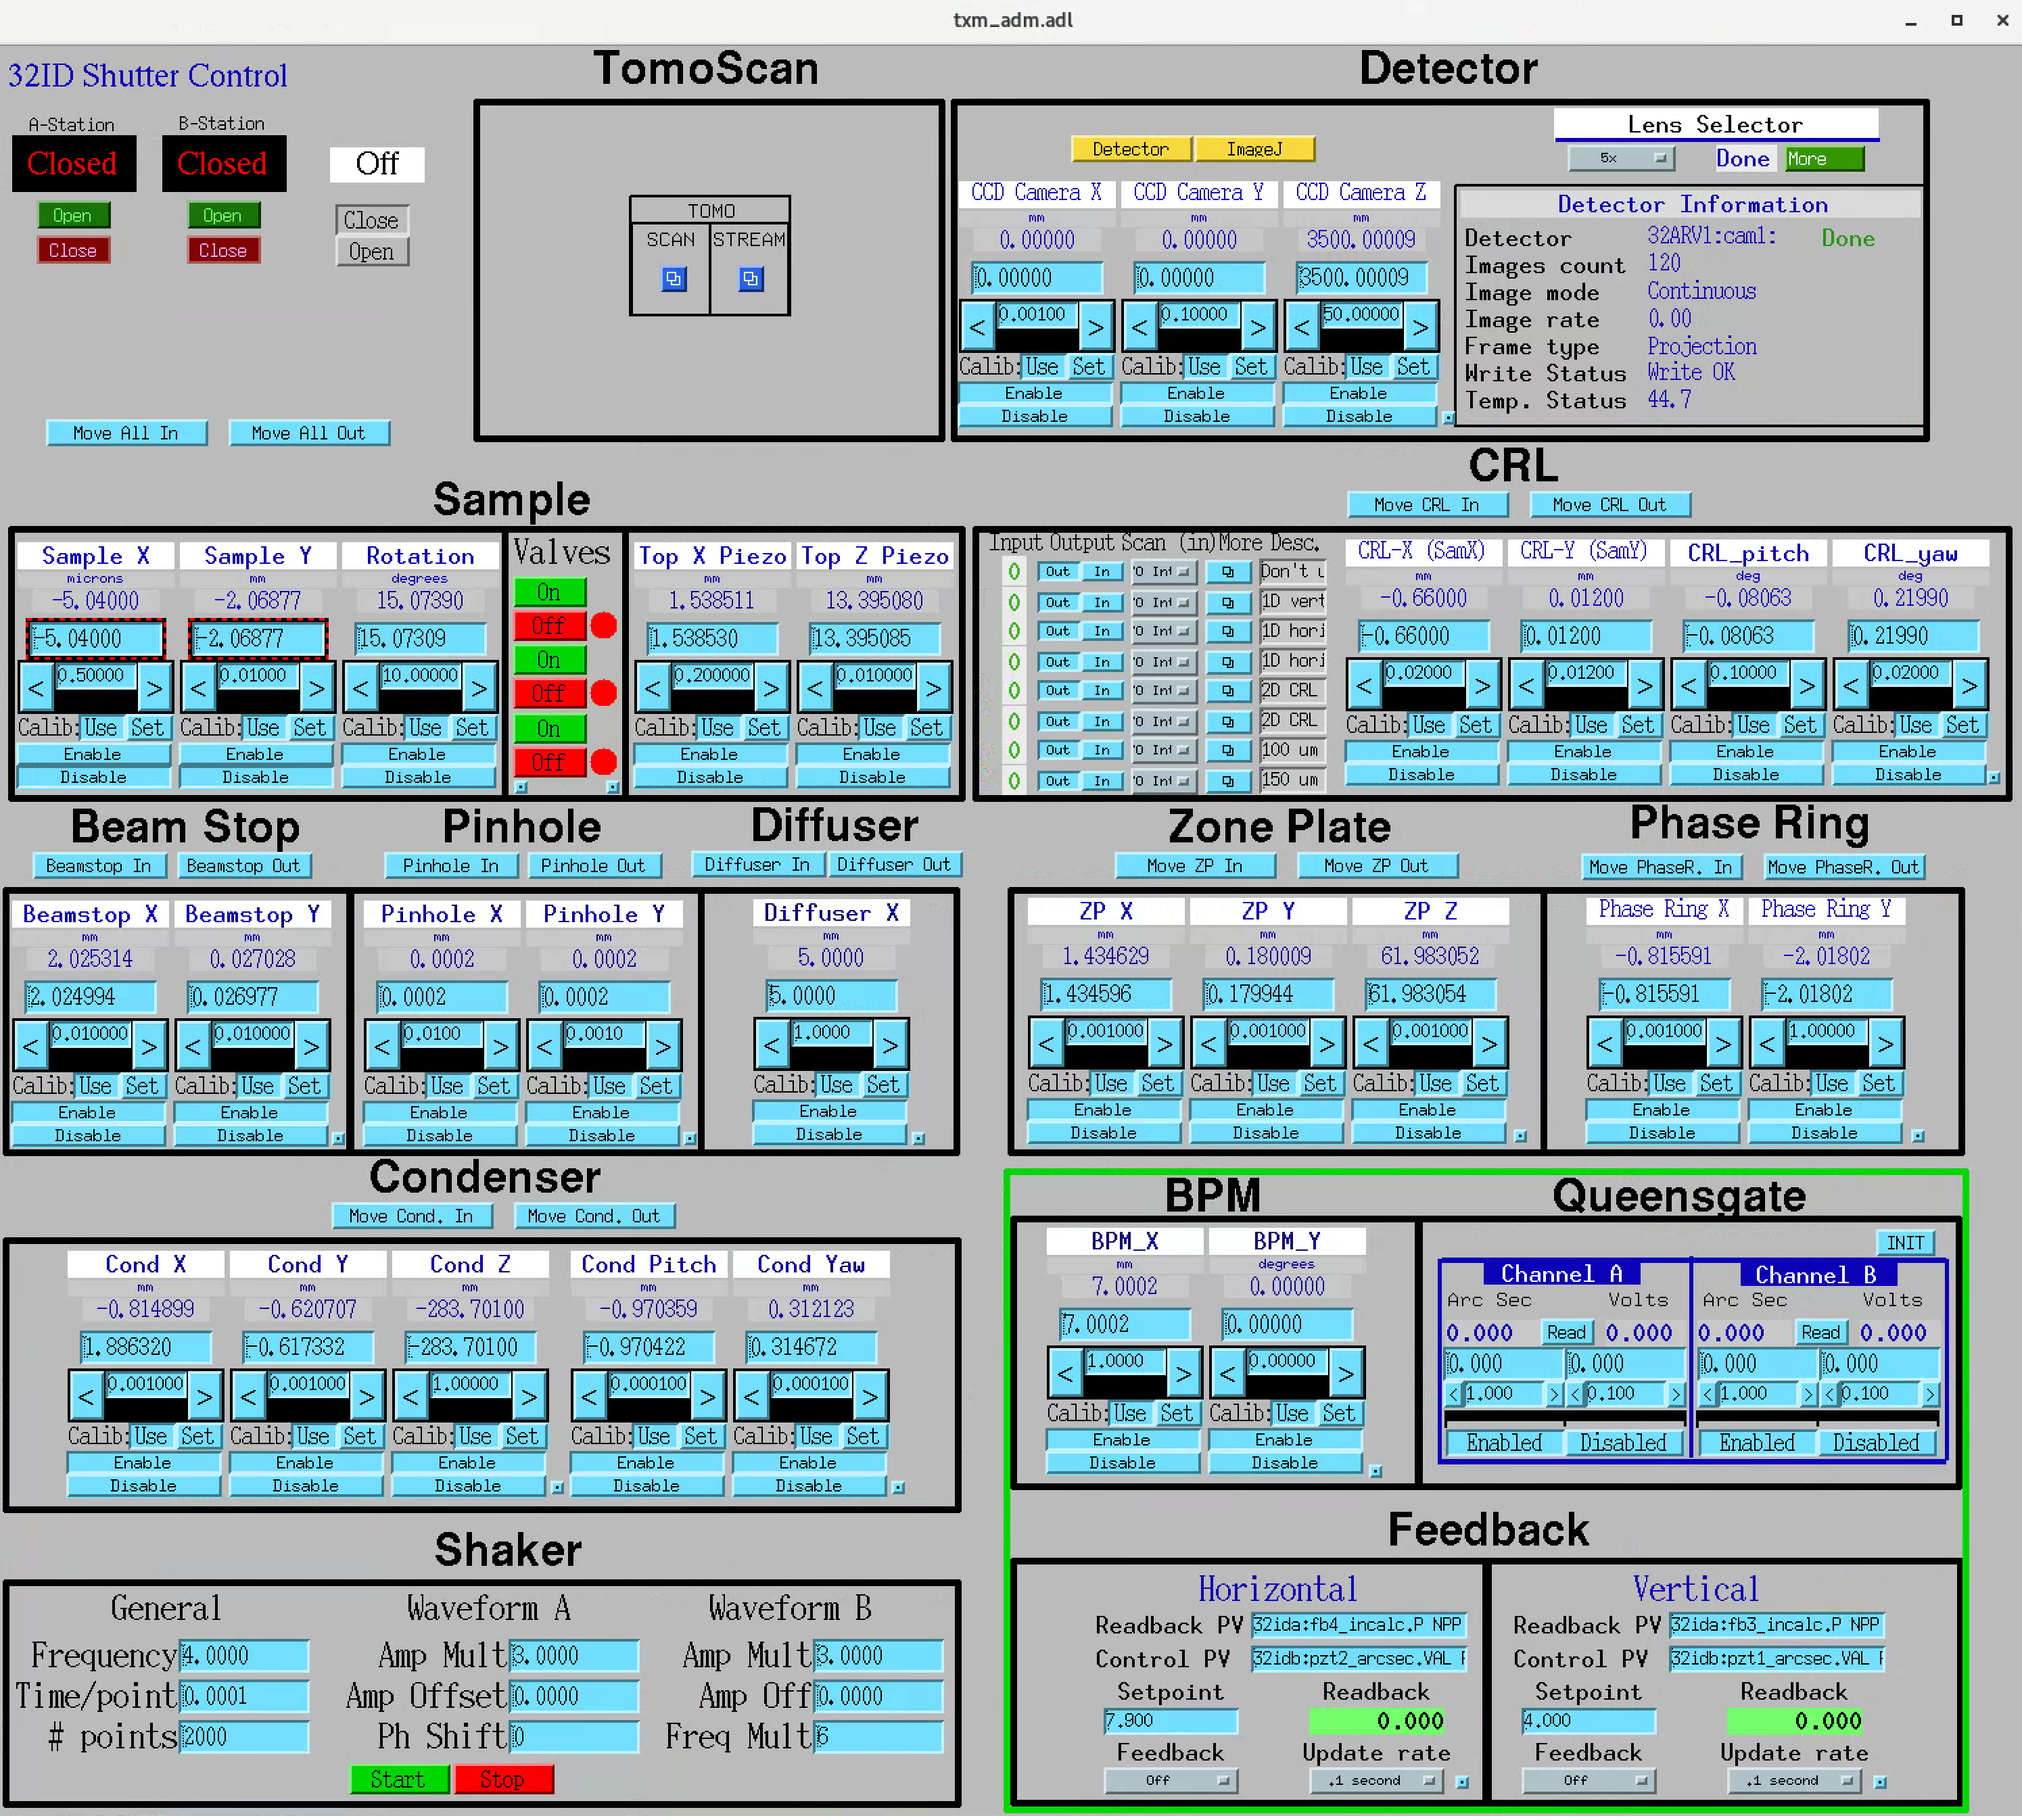
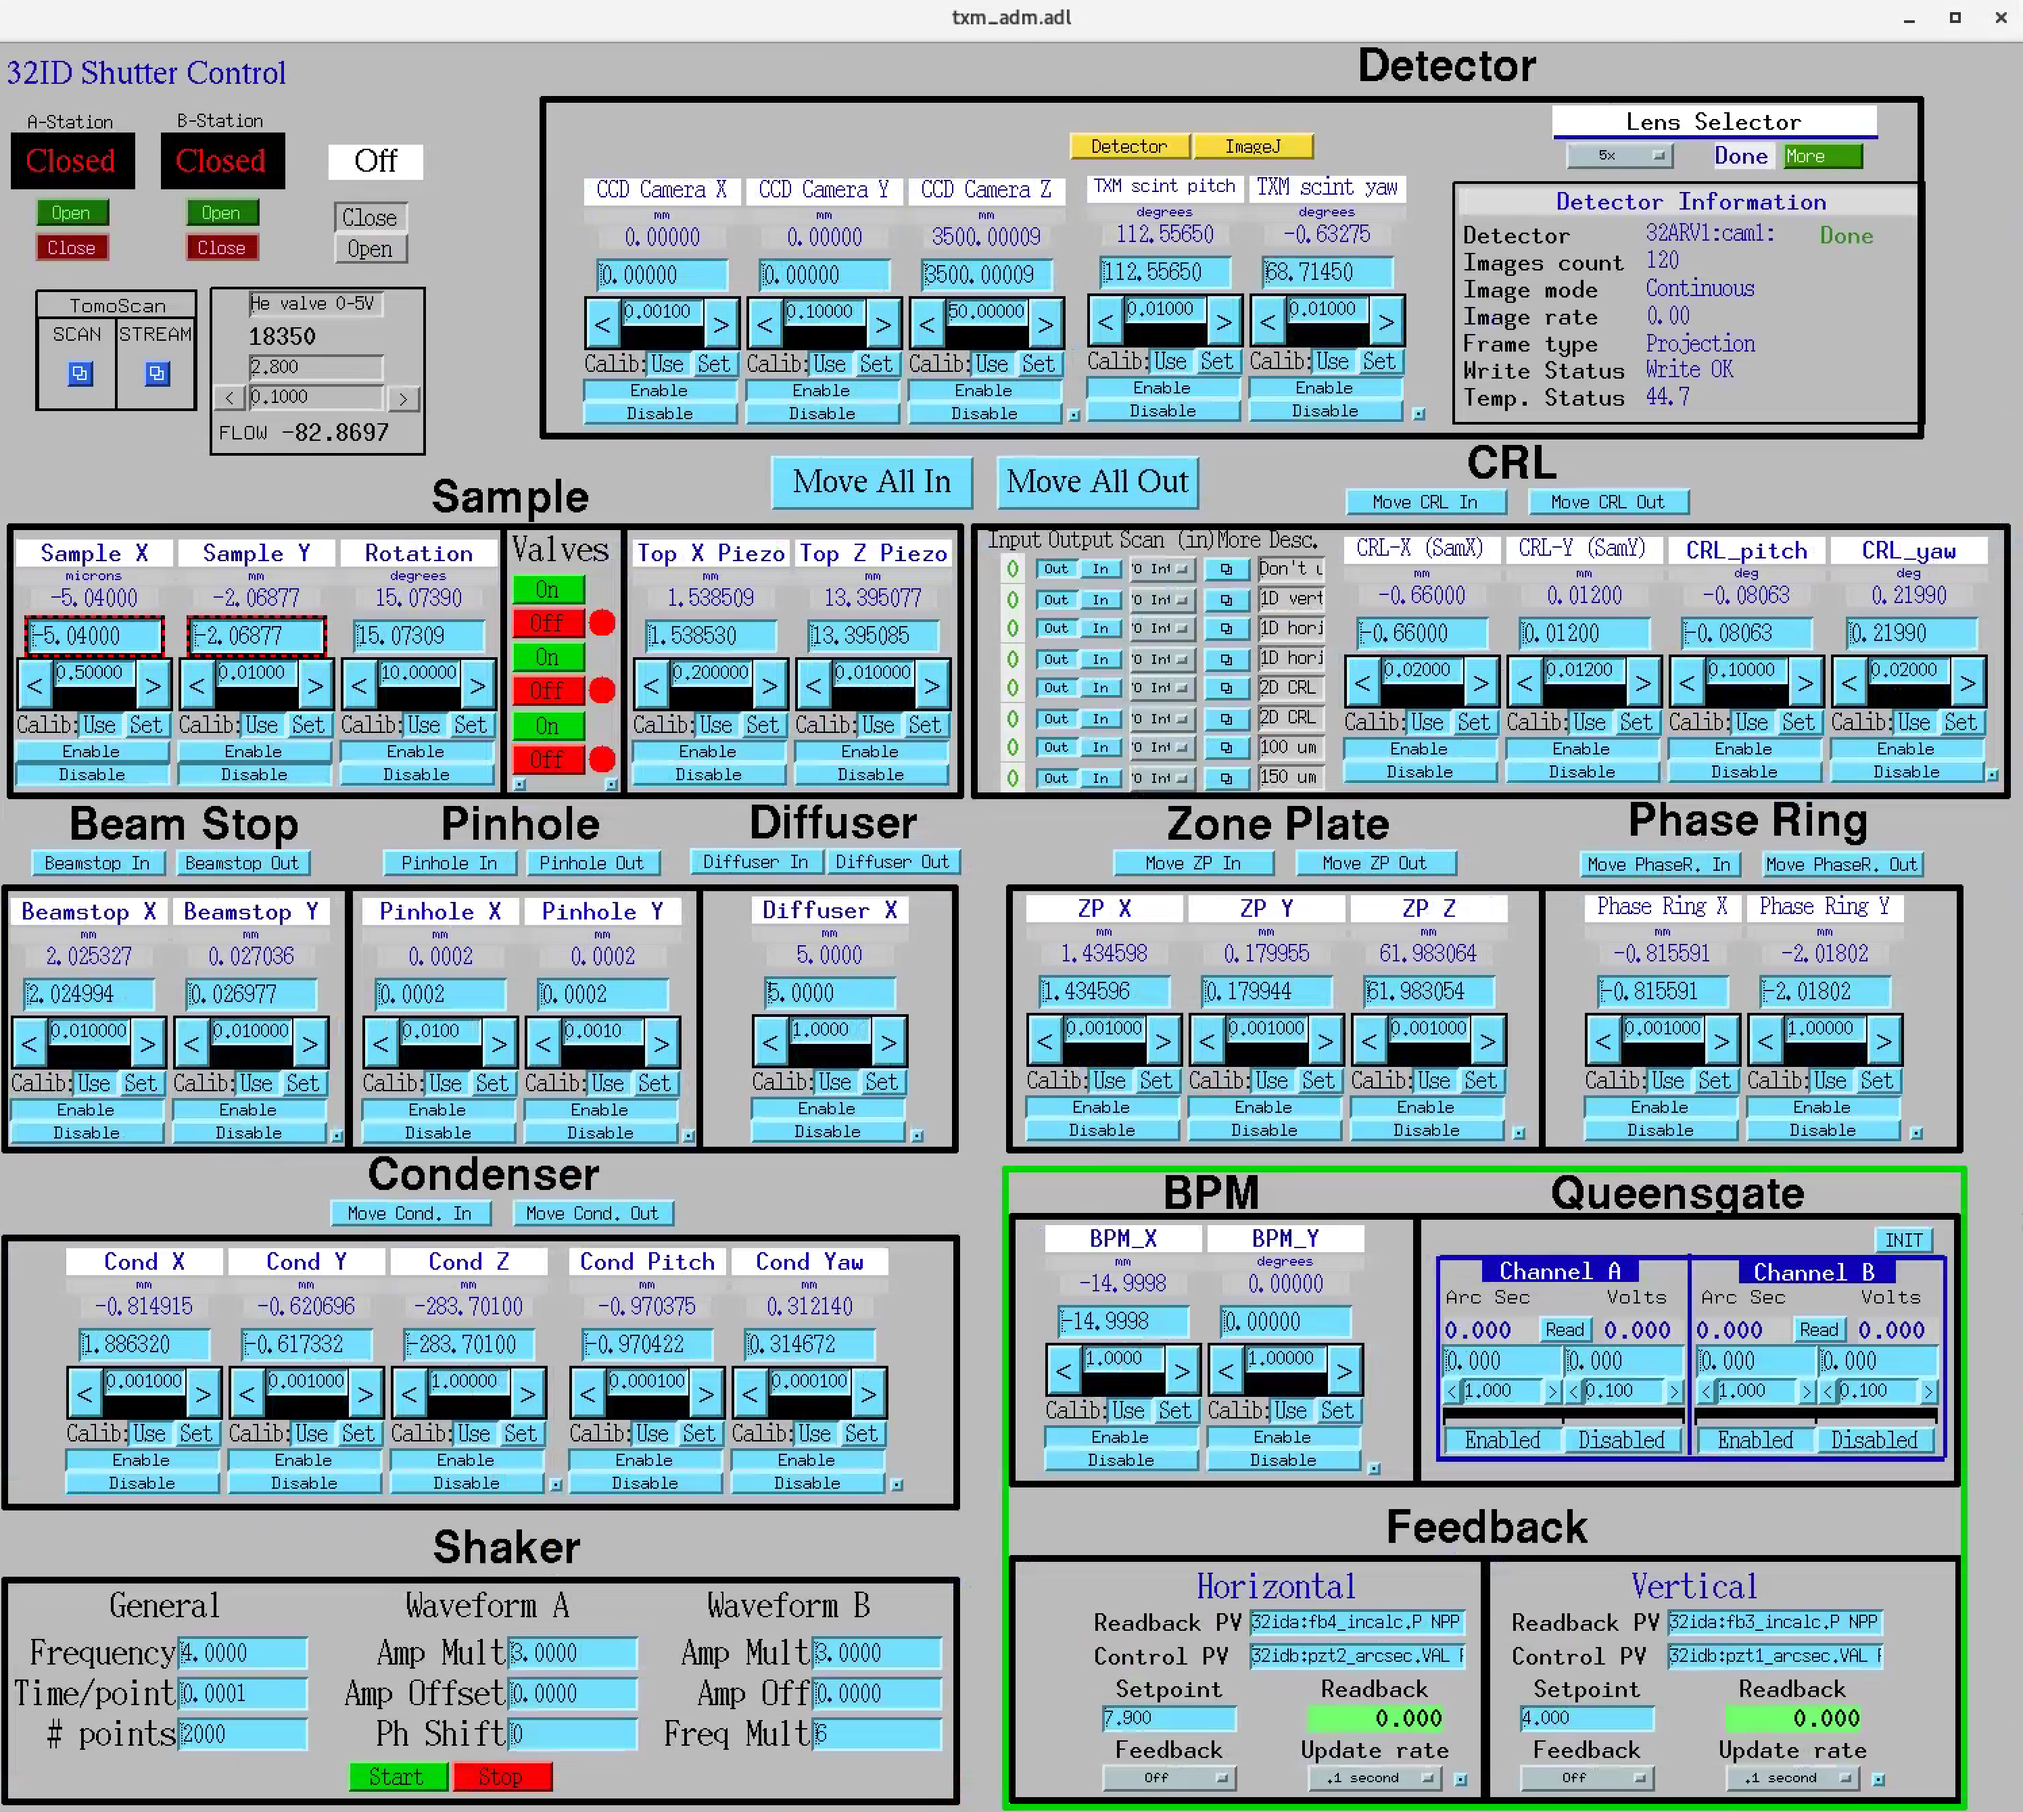
added He flow control

Changed region(s): [[0.0, 0.0, 0.9953, 1.0], [0.9331, 0.0, 0.9953, 0.031]]

diff --git a/docs/source/txm/troubleshoot/item_001.rst b/docs/source/txm/troubleshoot/item_001.rst
@@ -248,6 +248,26 @@ To estimate T°::
     In [1]: from furnace_calibration import calibrate_temperature
     In [2]: calibrate_temperature("furnace_calibration_2020-11-28.tsv", 500)
 
+He flow control
+---------------
+
+The medm user interface is accessible from the main beamline screen under: <IOC> <32idcTXM> <new> <Analox He Sensor>
+
+.. image:: ../img/he_sensor_01.png
+   :width: 400px
+   :align: center
+   :alt: project
+
+.. image:: ../img/he_sensor_02.png
+   :width: 400px
+   :align: center
+   :alt: project
+
+.. image:: ../img/he_sensor_03.png
+   :width: 400px
+   :align: center
+   :alt: project
+
 
 He valve control
 ----------------
@@ -448,7 +468,7 @@ We use an Aerotech Ensemble:
 Scintillator 
 ------------
 
-Focus adjustment and scintillator tilts are adjustable using the 
+Focus scintillator tilts are adjustable using the 
 
 ::
 
@@ -471,7 +491,7 @@ then select:
    :align: center
    :alt: project
 
-
+the focus (adjustment along Z) is controlled with a new port stage accessible from:
 
 Siemens Star
 ------------
